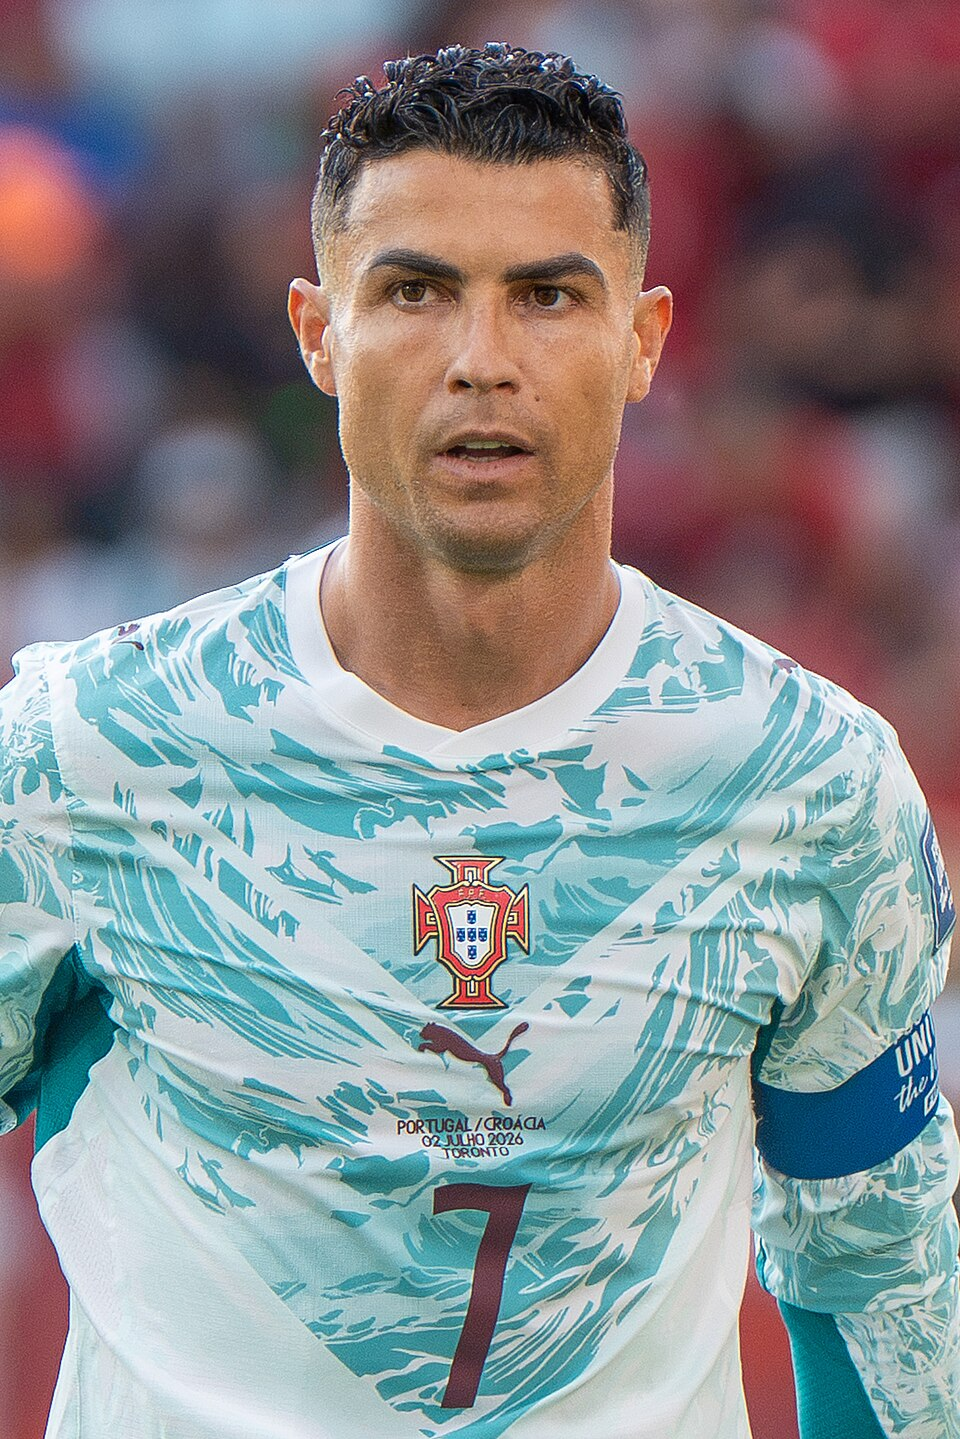
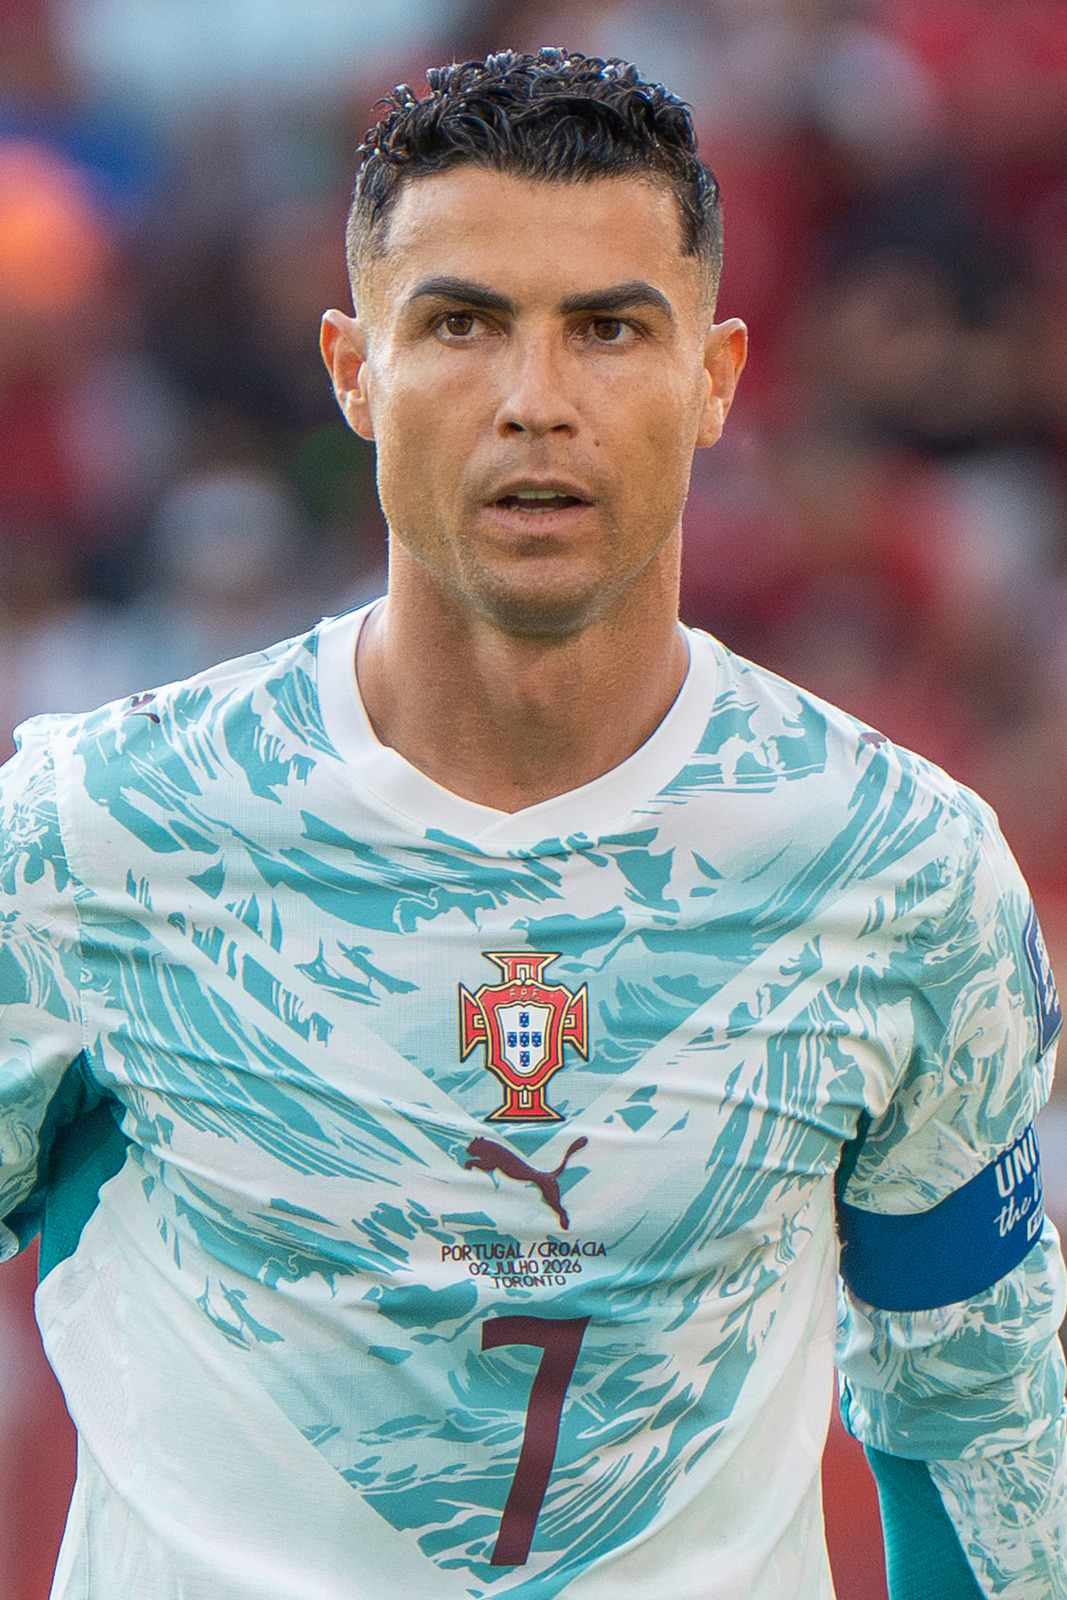
GOAT 배너 광고 구도와 메날두 화질 개선

diff --git a/HANDOFF.md b/HANDOFF.md
@@ -1,5 +1,12 @@
 # BBinge FC — 공용 인수인계
 
+## 2026-08-15 GOAT 배너 광고형 재구성·메날두 원본 교체
+
+- PC 세로 배너의 제목과 설명은 좌하단에 고정하고 `32강 바로 시작` CTA는 우하단으로 분리해 광고 배너의 시선 흐름을 만들었다.
+- 768px 이하에서는 위대한 6명의 작은 회전 카드를 없앴다. 태블릿은 한 줄 6분할, 380px 모바일은 3×2 무간격 콜라주로 바꾸고 메날두를 하단 2분할 주인공 이미지로 정리했다.
+- 크리스티아누 호날두와 리오넬 메시 이미지는 Wikimedia Commons의 축소 썸네일 대신 원본 파일을 다시 받아 1,600px·고품질 progressive JPEG로 최적화했다. 얼굴 생성이나 변형 없이 원본 디테일만 보존했다.
+- 로컬 브라우저에서 1440×900, 768×1024, 380×844를 검수했고 세 규격 모두 가로 오버플로가 없다.
+
 ## 2026-08-15 GOAT 배너·32강 카드 전면 보강
 
 - 메인 GOAT 배너를 PC·노트북·태블릿·380px 모바일에서 더 세로로 확장하고, 메시·호날두를 전면에 두되 디 스테파노·푸슈카시·펠레·베켄바워·크라위프·마라도나까지 8명의 얼굴이 서로 가리지 않게 재배치했다. 푸슈카시는 1954년 헝가리 대표팀 시절 사진으로 교체했다.
